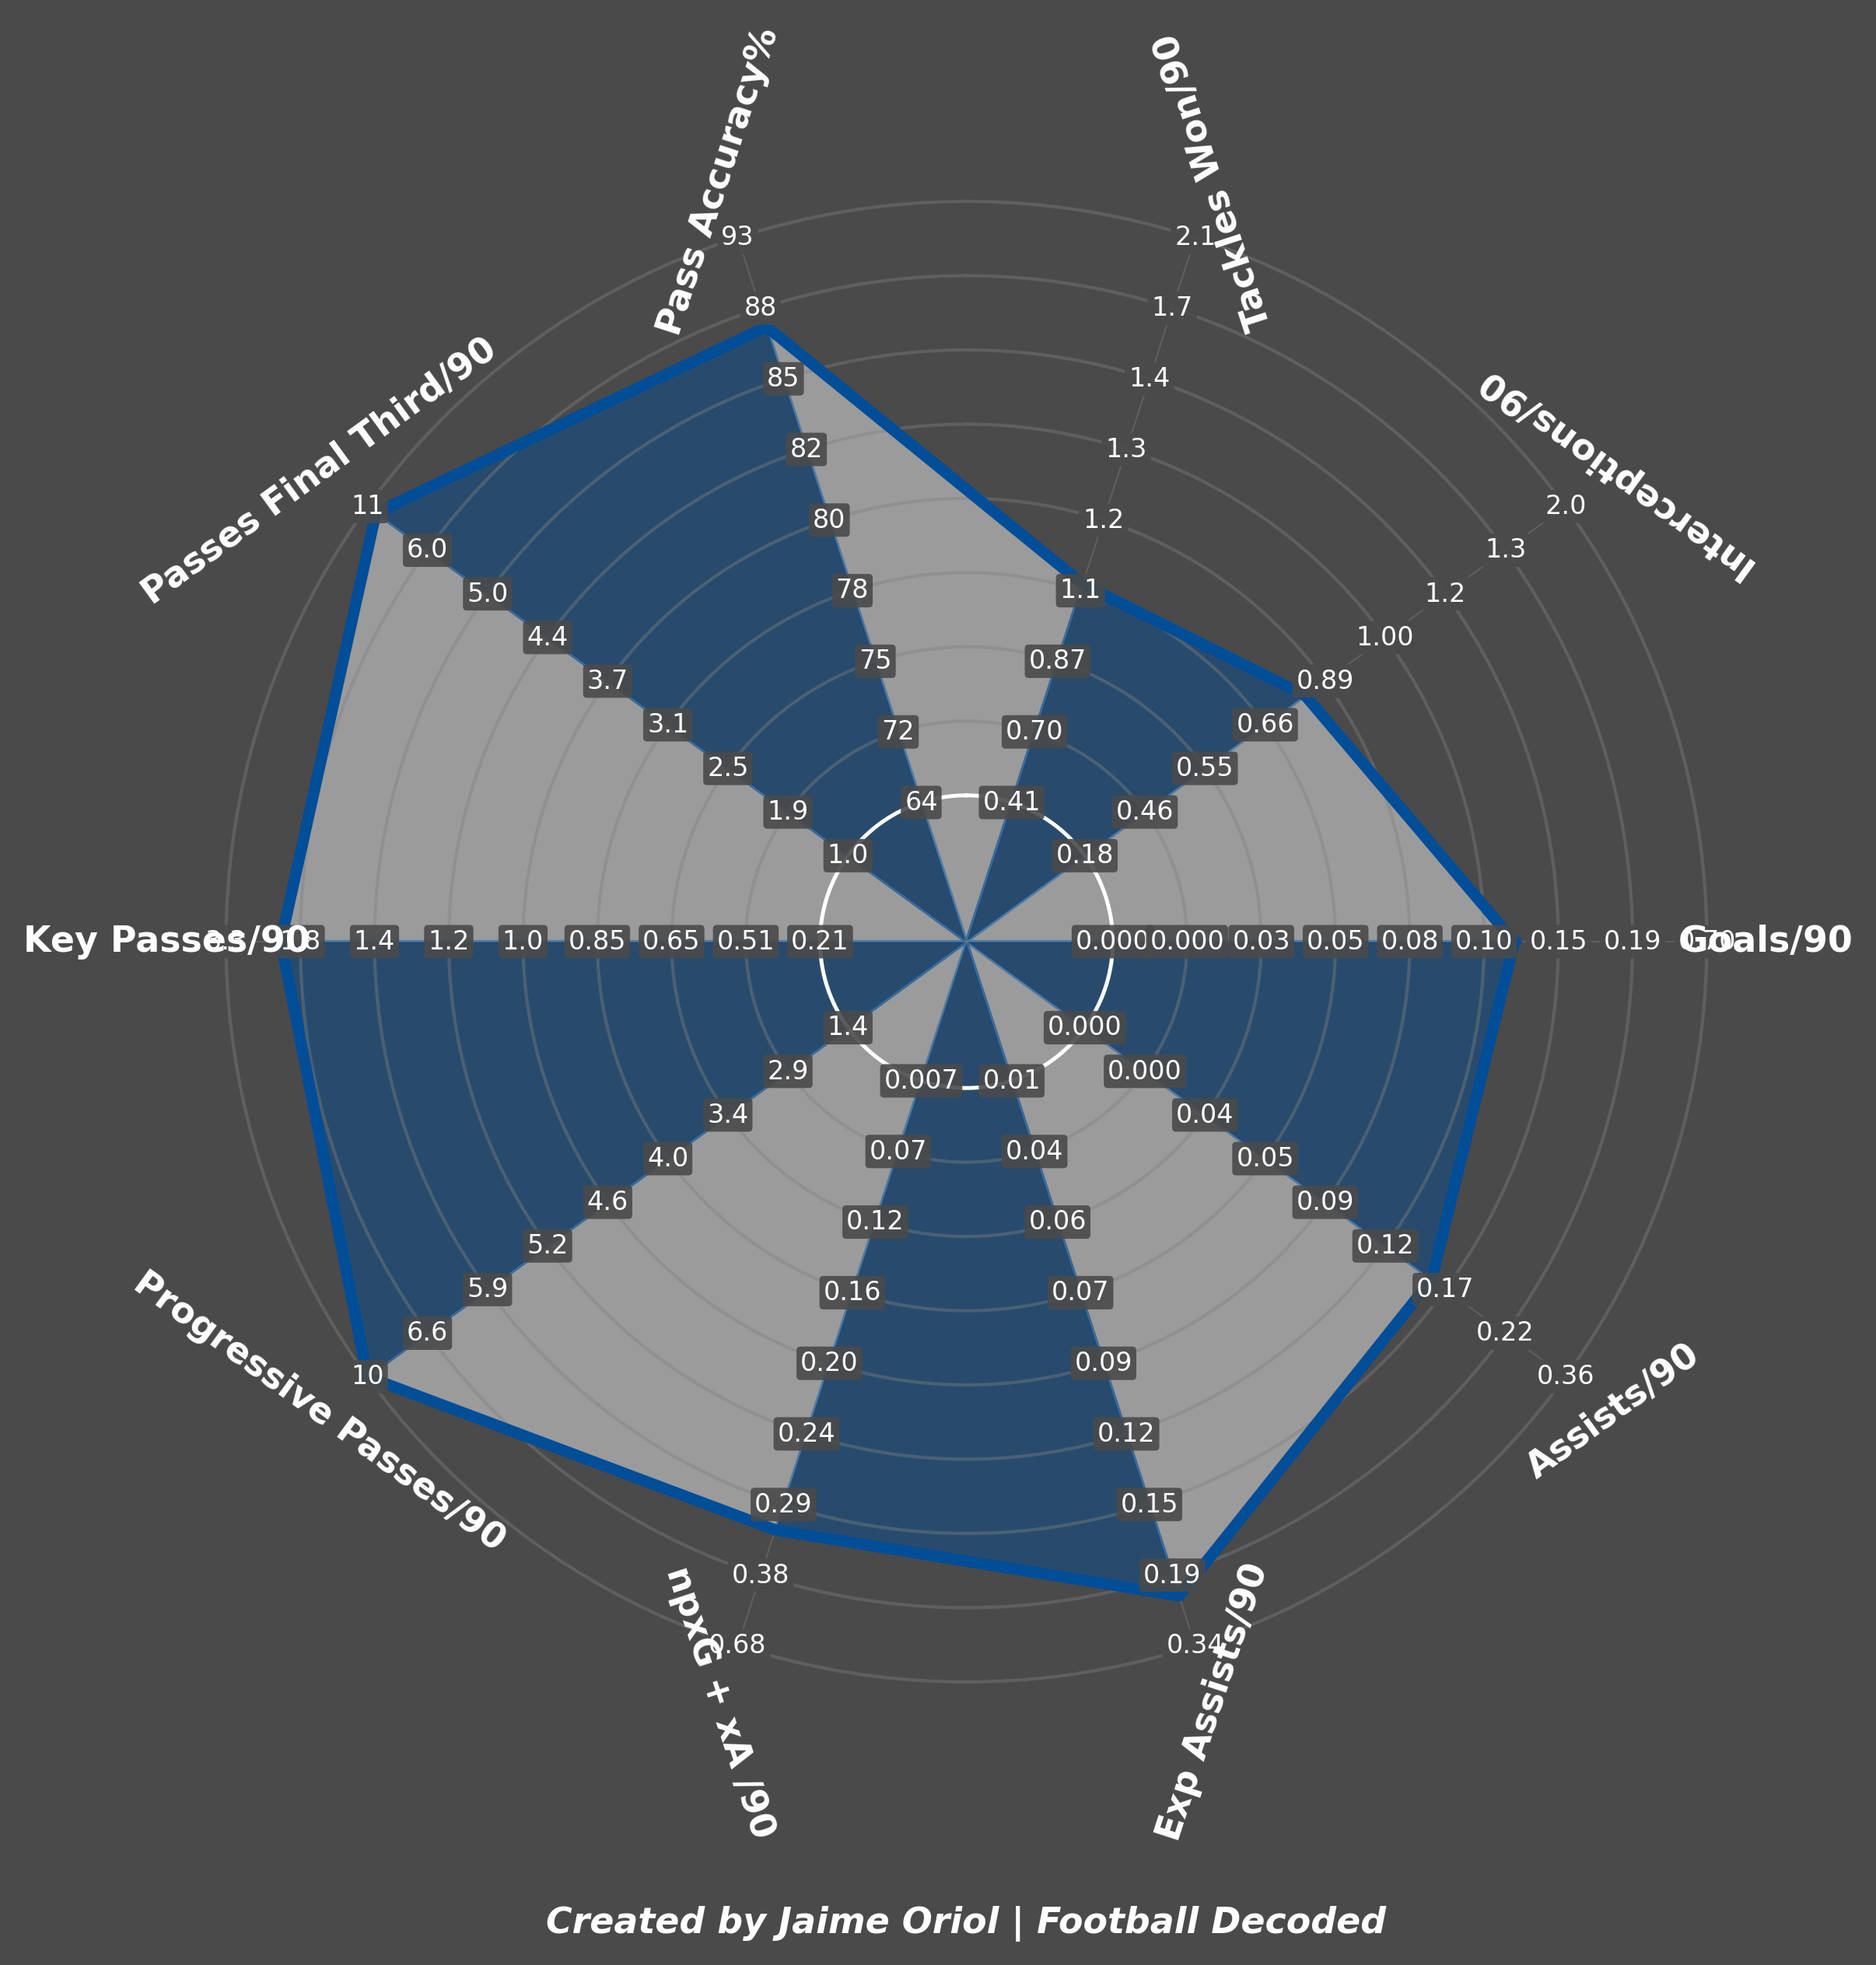
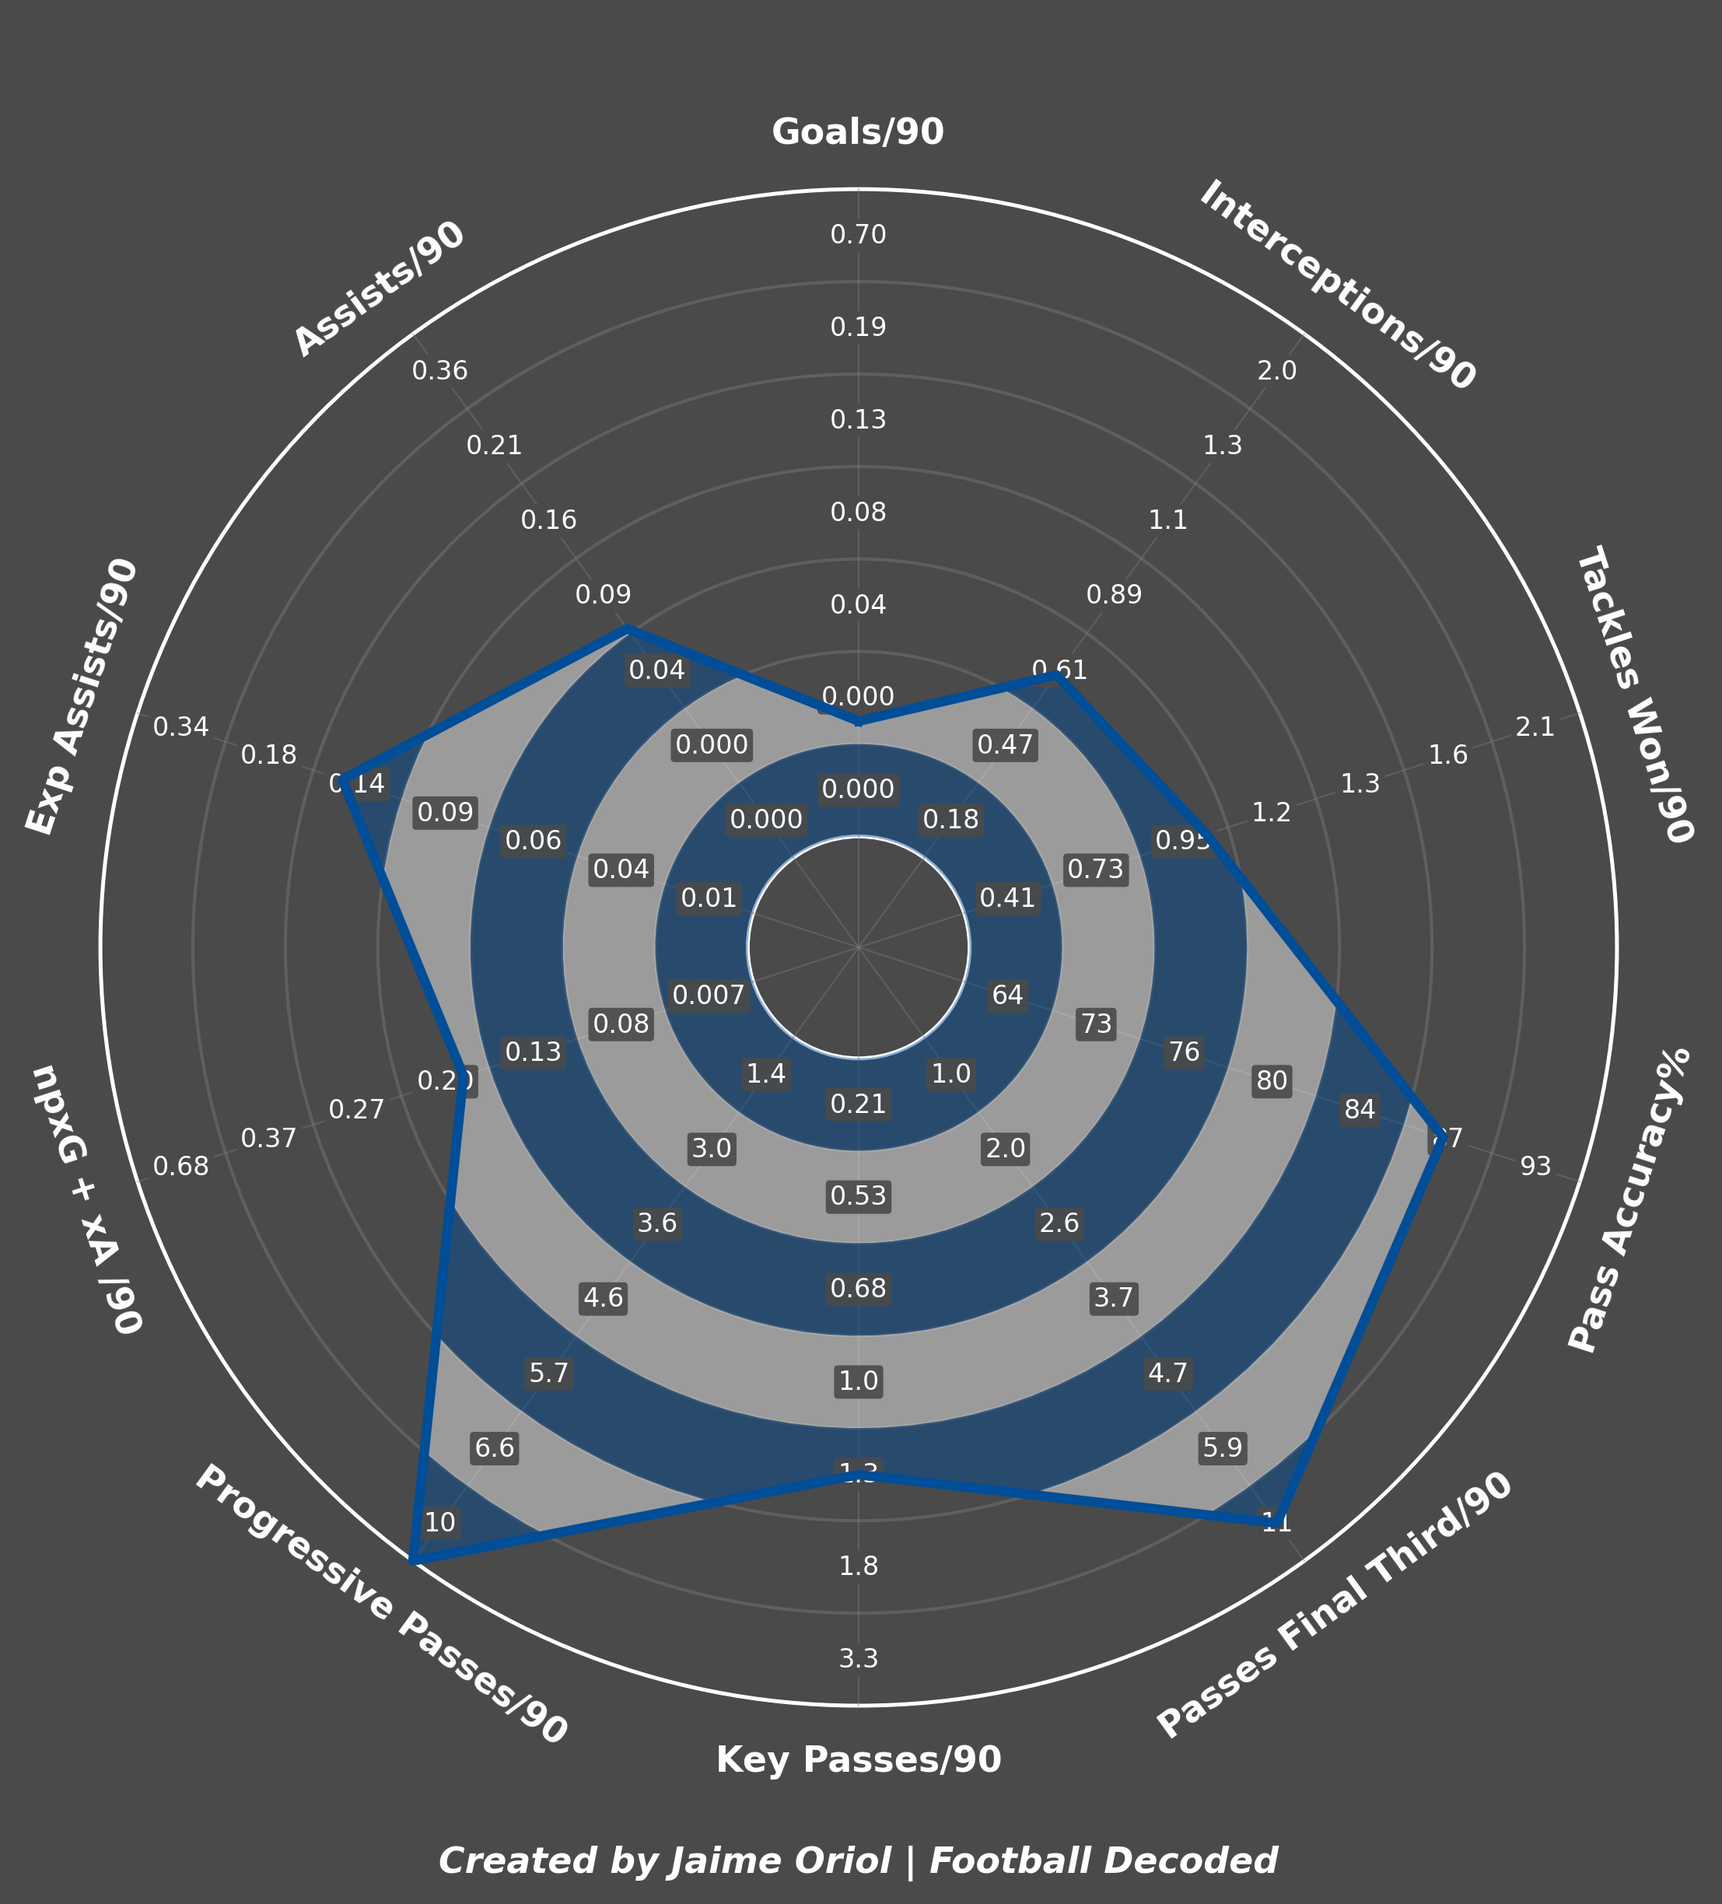
radar titles

diff --git a/viz/swarm_radar.py b/viz/swarm_radar.py
@@ -3,6 +3,7 @@ import numpy as np
 import matplotlib.pyplot as plt
 import matplotlib.patches as patches
 import matplotlib.patheffects as path_effects
+from matplotlib.patches import Polygon
 from matplotlib.transforms import Affine2D
 import mpl_toolkits.axisartist.floating_axes as floating_axes
 from mpl_toolkits.axes_grid1 import Divider
@@ -219,125 +220,178 @@ def _create_swarm_radar(df_data, player_1_data, player_2_data, metrics, metric_t
 def _create_traditional_radar(df_data, player_1_data, player_2_data, metrics, metric_titles,
                              colors, save_path, show_plot):
     
-    fig = plt.figure(figsize=(9, 10), facecolor=BACKGROUND_COLOR)
+    # Usar la misma lógica de ordenamiento que el swarm radar
+    reordered_metrics = [metrics[0]] + list(reversed(metrics[1:]))
+    reordered_titles = [metric_titles[0]] + list(reversed(metric_titles[1:]))
     
-    percentile_levels = [1, 14, 26, 38, 50, 62, 74, 86, 99]
-    percentile_values_all = []
-    
-    for metric in metrics:
+    # Calcular percentiles para ranges
+    ranges = []
+    for metric in reordered_metrics:
         metric_data = df_data[metric].dropna()
-        percentiles = np.percentile(metric_data, percentile_levels)
-        percentile_values_all.append(percentiles)
+        min_val = np.percentile(metric_data, 1)
+        max_val = np.percentile(metric_data, 99)
+        ranges.append((min_val, max_val))
     
-    ax = fig.add_subplot(111, projection='polar', position=[0.09, 0.10, 0.82, 0.75])
-    
-    num_vars = len(metrics)
-    angles = (np.linspace(0, 2 * np.pi, num_vars, endpoint=False) + np.pi/2).tolist()
-    angles += angles[:1]  # Cerrar el polígono
-    
-    # Para anillos circulares
-    angles_fine = np.linspace(0, 2 * np.pi, 200)
-    
-    ax.set_theta_offset(np.pi / 2)
-    ax.set_theta_direction(-1)
+    # Configuración visual - más pequeño
+    fig, ax = plt.subplots(figsize=(9, 10), facecolor=BACKGROUND_COLOR)
     ax.set_facecolor(BACKGROUND_COLOR)
+    ax.set_aspect('equal')
+    ax.set(xlim=(-22, 22), ylim=(-23, 25))  # Más pequeño
     
-    # Anillos circulares
-    ring_positions = np.linspace(0.17, 0.86, 9)
-    for i, pos in enumerate(ring_positions):
-        color, alpha = ('white', 1.0) if i == 0 else ('grey', 0.4)
-        ax.plot(angles_fine, [pos]*len(angles_fine), color=color, linewidth=1.2 if i == 0 else 1, alpha=alpha)
+    # Valores del jugador
+    player_1_values = [player_1_data[m] for m in reordered_metrics]
+    player_2_values = [player_2_data[m] for m in reordered_metrics] if player_2_data is not None else None
     
-    # Líneas radiales
-    for angle in angles[:-1]:
-        ax.plot([angle, angle], [0, 0.86], color='grey', linewidth=0.5, alpha=0.4)
+    # 8 círculos concéntricos (más pequeños)
+    radius_circles = [3, 5.5, 8, 10.5, 13, 15.5, 18, 20.5]
+    for i, rad in enumerate(radius_circles):
+        if i == 0:  # Círculo interior
+            color, lw, alpha = 'white', 1.2, 1.0
+        elif i == len(radius_circles)-1:  # Círculo exterior
+            color, lw, alpha = 'white', 1.2, 1.0
+        else:  # Círculos intermedios
+            color, lw, alpha = 'grey', 1, 0.4
+            
+        circle = plt.Circle(xy=(0, 0), radius=rad, fc='none', ec=color, lw=lw, alpha=alpha)
+        ax.add_patch(circle)
     
-    # Valores en los anillos
-    for metric_idx, percentiles in enumerate(percentile_values_all):
-        angle = angles[metric_idx]
+    # Coordenadas para labels
+    n_params = len(reordered_metrics)
+    angles = np.linspace(0, 2*np.pi, n_params, endpoint=False)
+    
+    # Labels de métricas (más cerca)
+    label_radius = 22
+    for i, (angle, title) in enumerate(zip(angles, reordered_titles)):
+        x = label_radius * np.sin(angle)
+        y = label_radius * np.cos(angle)
         
-        for ring_idx, (ring_pos, percentile_val) in enumerate(zip(ring_positions, percentiles)):
-            if percentile_val < 0.01:
-                label = f'{percentile_val:.3f}'
-            elif percentile_val < 1:
-                label = f'{percentile_val:.2f}'
-            elif percentile_val < 10:
-                label = f'{percentile_val:.1f}'
+        # Rotación del texto
+        rot_deg = -np.rad2deg(angle)
+        if y < 0:
+            rot_deg += 180
+            
+        ax.text(x, y, title, rotation=rot_deg, ha='center', va='center',
+                fontsize=11, fontweight='bold', color='white')
+    
+    # Líneas radiales (más cortas)
+    for angle in angles:
+        x_end = 20.5 * np.sin(angle)
+        y_end = 20.5 * np.cos(angle)
+        ax.plot([0, x_end], [0, y_end], color='grey', linewidth=0.5, alpha=0.4)
+    
+    # 7 valores en círculos (radios más pequeños)
+    range_radius = [4.25, 6.75, 9.25, 11.75, 14.25, 16.75, 19.25]
+    range_percentiles = [1, 15, 30, 50, 70, 85, 99]
+    
+    for rad_idx, (rad, perc) in enumerate(zip(range_radius, range_percentiles)):
+        for i, (angle, metric) in enumerate(zip(angles, reordered_metrics)):
+            metric_data = df_data[metric].dropna()
+            val = np.percentile(metric_data, perc)
+            
+            x = rad * np.sin(angle)
+            y = rad * np.cos(angle)
+            
+            # Formatear valor
+            if val < 0.01:
+                label = f'{val:.3f}'
+            elif val < 1:
+                label = f'{val:.2f}'
+            elif val < 10:
+                label = f'{val:.1f}'
             else:
-                label = f'{int(percentile_val)}'
+                label = f'{int(val)}'
             
-            ax.text(angle, ring_pos, label, ha='center', va='center', size=8, color='white', weight='normal',
-                   bbox=dict(boxstyle='round,pad=0.15', facecolor=BACKGROUND_COLOR, edgecolor='none', alpha=0.9))
+            ax.text(x, y, label, ha='center', va='center', size=8, color='white',
+                   bbox=dict(boxstyle='round,pad=0.15', facecolor=BACKGROUND_COLOR, 
+                           edgecolor='none', alpha=0.9))
     
-    def get_percentile_position(value, percentiles):
-        if value <= percentiles[0]:
-            return ring_positions[0]
-        if value >= percentiles[-1]:
-            return ring_positions[-1]
+    # Función para convertir valor a coordenada (rango más pequeño)
+    def get_radar_coordinates(values, ranges):
+        vertices = []
+        for i, (value, (min_val, max_val)) in enumerate(zip(values, ranges)):
+            # Normalizar valor al rango 3-20.5
+            if max_val == min_val:
+                norm_value = 11.75  # Punto medio
+            else:
+                norm_value = 3 + (value - min_val) / (max_val - min_val) * 17.5
             
-        for i in range(len(percentiles) - 1):
-            if percentiles[i] <= value <= percentiles[i + 1]:
-                fraction = (value - percentiles[i]) / (percentiles[i + 1] - percentiles[i])
-                return ring_positions[i] + fraction * (ring_positions[i + 1] - ring_positions[i])
+            # Limitar al rango de círculos
+            norm_value = max(3, min(20.5, norm_value))
+            
+            angle = angles[i]
+            x = norm_value * np.sin(angle)
+            y = norm_value * np.cos(angle)
+            vertices.append([x, y])
         
-        return ring_positions[-1]
+        return vertices
     
-    # Datos del jugador 1 - LÍNEAS RECTAS
-    player_1_positions = []
-    for metric, percentiles in zip(metrics, percentile_values_all):
-        val = player_1_data[metric]
-        pos = get_percentile_position(val, percentiles)
-        player_1_positions.append(pos)
-    player_1_positions += player_1_positions[:1]  # Cerrar el polígono
+    # Polígono jugador 1
+    vertices_1 = get_radar_coordinates(player_1_values, ranges)
     
     if player_2_data is None:
-        # Solo un jugador - líneas rectas con colores alternados
-        ax.plot(angles, player_1_positions, color=colors[0], linewidth=3.5)
+        # Solo un jugador - alternar colores por ANILLOS dentro del polígono
         
-        # Llenar con colores alternados por sectores
-        for i in range(len(angles) - 1):
-            angle_slice = [angles[i], angles[i + 1]]
-            values_slice = [player_1_positions[i], player_1_positions[i + 1]]
+        # Primero crear el polígono base del jugador
+        polygon_1 = Polygon(vertices_1, fc='none', alpha=1.0, zorder=1)
+        ax.add_patch(polygon_1)
+        
+        # Crear anillos alternados SOLO dentro del polígono del jugador
+        theta = np.linspace(0, 2*np.pi, 100)
+        
+        for i in range(len(radius_circles)-1):
+            inner_radius = radius_circles[i]
+            outer_radius = radius_circles[i+1]
+            
+            # Alternar colores por anillo
             color_idx = i % 2
-            ax.fill(angle_slice + [0, 0], values_slice + [0, 0], 
-                   color=colors[color_idx], alpha=0.45, edgecolor=colors[0], linewidth=1)
+            
+            # Crear anillo como diferencia entre dos círculos
+            x_outer = outer_radius * np.cos(theta)
+            y_outer = outer_radius * np.sin(theta)
+            x_inner = inner_radius * np.cos(theta)
+            y_inner = inner_radius * np.sin(theta)
+            
+            # Crear el anillo
+            ring_vertices = list(zip(x_outer, y_outer)) + list(zip(x_inner[::-1], y_inner[::-1]))
+            ring_polygon = Polygon(ring_vertices, fc=colors[color_idx], alpha=0.45, zorder=2)
+            
+            # Limitar el anillo al área del polígono del jugador
+            ring_polygon.set_clip_path(polygon_1)
+            ax.add_patch(ring_polygon)
+        
+        # Contorno del jugador encima
+        vertices_1_closed = vertices_1 + [vertices_1[0]]
+        x_coords_1 = [v[0] for v in vertices_1_closed]
+        y_coords_1 = [v[1] for v in vertices_1_closed]
+        ax.plot(x_coords_1, y_coords_1, color=colors[0], linewidth=3, zorder=10)
+        
     else:
-        # Dos jugadores - líneas rectas
-        ax.plot(angles, player_1_positions, color=colors[0], linewidth=3)
-        ax.fill(angles, player_1_positions, color=colors[0], alpha=0.35)
+        # Dos jugadores - colores sólidos
+        polygon_1 = Polygon(vertices_1, fc=colors[0], alpha=0.35, zorder=2)
+        ax.add_patch(polygon_1)
         
-        # Datos del jugador 2
-        player_2_positions = []
-        for metric, percentiles in zip(metrics, percentile_values_all):
-            val = player_2_data[metric]
-            pos = get_percentile_position(val, percentiles)
-            player_2_positions.append(pos)
-        player_2_positions += player_2_positions[:1]
+        # Contorno jugador 1
+        vertices_1_closed = vertices_1 + [vertices_1[0]]
+        x_coords_1 = [v[0] for v in vertices_1_closed]
+        y_coords_1 = [v[1] for v in vertices_1_closed]
+        ax.plot(x_coords_1, y_coords_1, color=colors[0], linewidth=3, zorder=3)
         
-        ax.plot(angles, player_2_positions, color=colors[1], linewidth=3)
-        ax.fill(angles, player_2_positions, color=colors[1], alpha=0.35)
-    
-    # Etiquetas con rotación correcta
-    label_padding = 1.08  # Distancia desde el anillo exterior
-    for angle, title in zip(angles[:-1], metric_titles):
-        # Calcular rotación del texto
-        text_rotation_delta = 90 if angle >= np.pi else -90
-        rotation = text_rotation_delta + np.rad2deg(angle)
+        # Polígono jugador 2
+        vertices_2 = get_radar_coordinates(player_2_values, ranges)
+        polygon_2 = Polygon(vertices_2, fc=colors[1], alpha=0.35, zorder=2)
+        ax.add_patch(polygon_2)
         
-        # Colocar texto con rotación
-        ax.text(angle, 0.86 * label_padding, title, 
-               ha='center', va='center', size=11, weight='bold', color='white',
-               rotation=rotation)
+        # Contorno jugador 2
+        vertices_2_closed = vertices_2 + [vertices_2[0]]
+        x_coords_2 = [v[0] for v in vertices_2_closed]
+        y_coords_2 = [v[1] for v in vertices_2_closed]
+        ax.plot(x_coords_2, y_coords_2, color=colors[1], linewidth=3, zorder=3)
     
-    ax.set_ylim(0, 1.0)
-    ax.set_yticks([])
-    ax.set_xticks([])  # Quitar xticks por defecto
-    ax.grid(False)
-    ax.spines['polar'].set_visible(False)
+    # Footer (mantener misma posición)
+    ax.text(0, -25, "Created by Jaime Oriol | Football Decoded", 
+            ha='center', fontsize=11, color='white', weight='bold', style='italic')
     
-    # Footer
-    fig.text(0.5, 0.05, "Created by Jaime Oriol | Football Decoded", 
-             fontstyle="italic", ha="center", fontsize=11, color="white", weight='bold')
+    ax.axis('off')
     
     plt.savefig(save_path, dpi=300, bbox_inches='tight', facecolor=BACKGROUND_COLOR)
     if show_plot:
